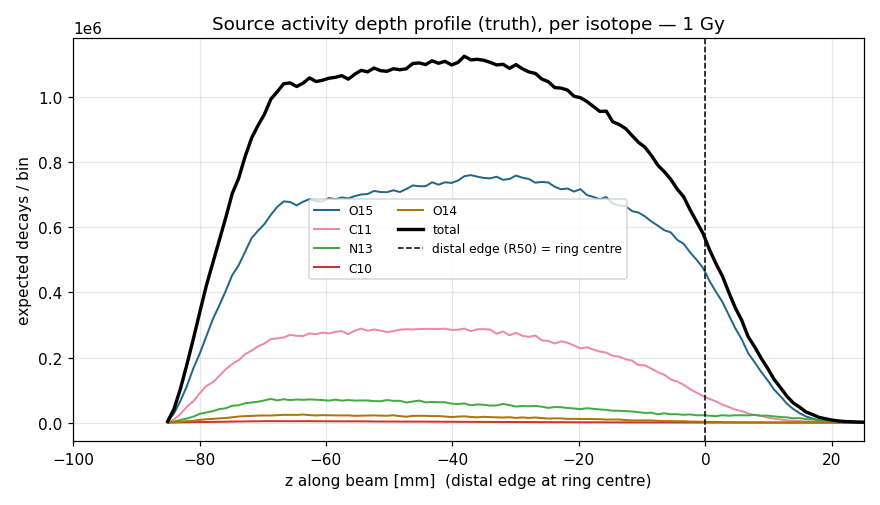
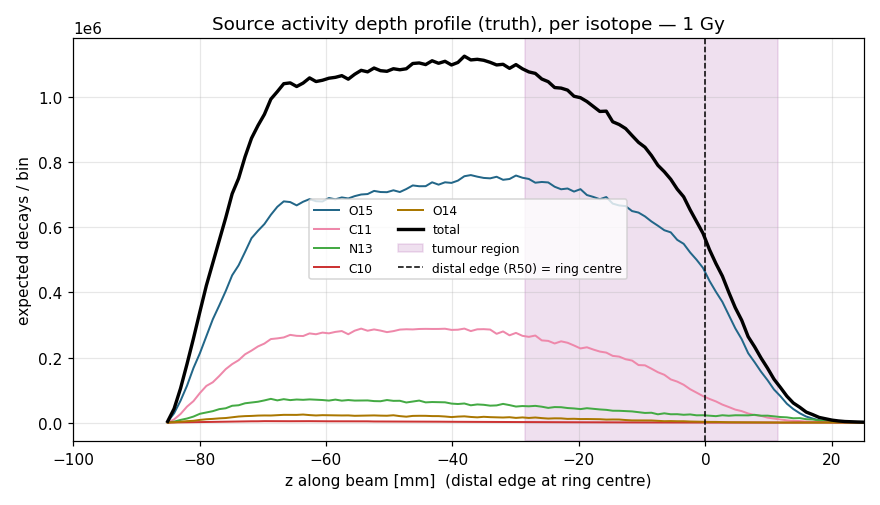
Fix Figure 1 caption/figure mismatch (activity_truth)
The caption referenced a shaded tumour band and "every scanner", but the
rewrite had dropped the band and the figure has no scanner. Restore the tumour
region shaded band in fig_truth (py/fig_activity_profiles.py, placed in the
centred frame) and correct the caption: it now matches the figure (isotopes +
total + distal edge at 0 + tumour band, straddling the activity edge) and drops
the scanner sentence. Tree-root PDF refreshed.

Changed region(s): [[0.4295, 0.0594, 0.8898, 0.8911]]

diff --git a/py/fig_activity_profiles.py b/py/fig_activity_profiles.py
@@ -59,25 +59,30 @@ def _surviving(iso, t_start):
     return (np.exp(-lam * t_start) - np.exp(-lam * T_MEAS)) / (1.0 - np.exp(-lam * T_MEAS))
 
 
+# Tumour/target z-extent in the native scenario frame [mm] (headep tumour ellipsoid, c=20 at -25).
+TUMOUR_MM = (-45.0, -5.0)
+
+
 def _load_profile():
-    """Return (z centred on the distal edge, {iso: activity(z)}), from the truth bundle."""
+    """Return (z centred on the distal edge, {iso: activity(z)}, isos, shift[mm]) from the bundle."""
     path = os.path.join(PRODS, SCEN, "truth", "activity_profile_%s.csv" % BUDGET)
     rows = list(csv.DictReader(open(path)))
     isos = [c for c in rows[0] if c not in ("z_mm", "total")]
     z    = np.array([float(r["z_mm"]) for r in rows])
     A    = {iso: np.array([float(r[iso]) for r in rows]) for iso in isos}
     tot  = np.array([float(r["total"]) for r in rows])
-    z    = z - _distal_edge(z, tot)                    # centre the distal edge at z=0
-    return z, A, isos
+    shift = -_distal_edge(z, tot)                      # bring the distal edge to z=0
+    return z + shift, A, isos, shift
 
 
 def fig_truth():
     """activity_truth.png — the truth activity per isotope (full window), edge centred at 0."""
-    z, A, isos = _load_profile()
+    z, A, isos, shift = _load_profile()
     fig, ax = plt.subplots(figsize=(8, 4.6))
     for iso in isos:
         ax.plot(z, A[iso], lw=1.3, color=ISO_COLORS.get(iso), label=iso)
     ax.plot(z, sum(A.values()), lw=2.2, color="k", label="total")
+    ax.axvspan(TUMOUR_MM[0] + shift, TUMOUR_MM[1] + shift, alpha=0.12, color="purple", label="tumour region")
     ax.axvline(0, ls="--", color="k", lw=1, label="distal edge (R50) = ring centre")
     ax.set_xlabel("z along beam [mm]  (distal edge at ring centre)")
     ax.set_ylabel("expected decays / bin")
@@ -89,7 +94,7 @@ def fig_truth():
 
 def fig_tstart():
     """activity_vs_tstart.png — four panels (t_start=0,120,180,300 s), per-isotope source activity."""
-    z, A, isos = _load_profile()
+    z, A, isos, _ = _load_profile()
     ymax = max(sum(A.values()))
     fig, axes = plt.subplots(2, 2, figsize=(11, 7), sharex=True, sharey=True)
     axes = axes.flatten()

diff --git a/latex/scanner_prods.tex b/latex/scanner_prods.tex
@@ -451,9 +451,11 @@ survey are detector/geometry-only.
 \begin{figure}[htbp]
 \centering
 \includegraphics[width=0.86\textwidth]{figures/activity_truth.png}
-\caption{Source activity depth profile (truth), per isotope, at 1\,Gy. The total (black) falls
-through its distal edge (R50), the range endpoint, placed at the ring centre $z=0$; the shaded
-band is the tumour/target extent. Same source, same positioning, for every scanner.}
+\caption{Source activity depth profile (truth), per isotope, at 1\,Gy, over the full acquisition
+window. The total (black) falls through its distal edge (R50), the range endpoint, placed at the
+ring centre $z=0$; the shaded band is the tumour/target extent, which straddles the activity
+edge (the activity peaks proximal of the tumour, the usual $\beta^+$-upstream-of-dose offset).
+Source level --- no scanner.}
 \label{fig:activity}
 \end{figure}
 
